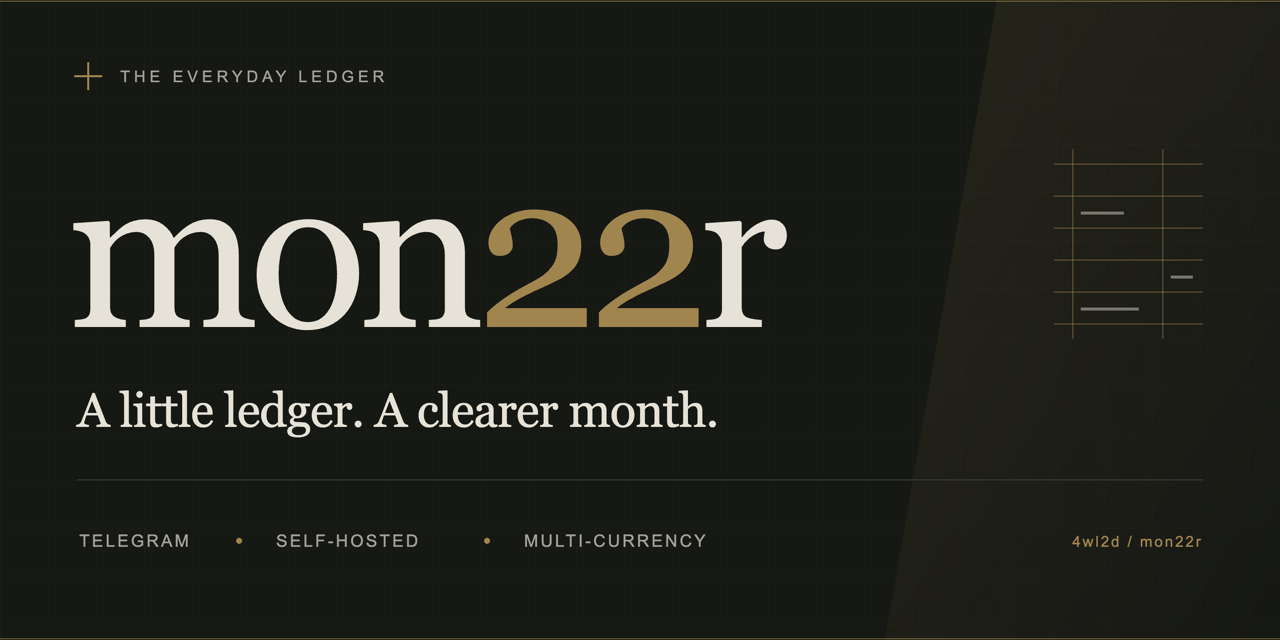
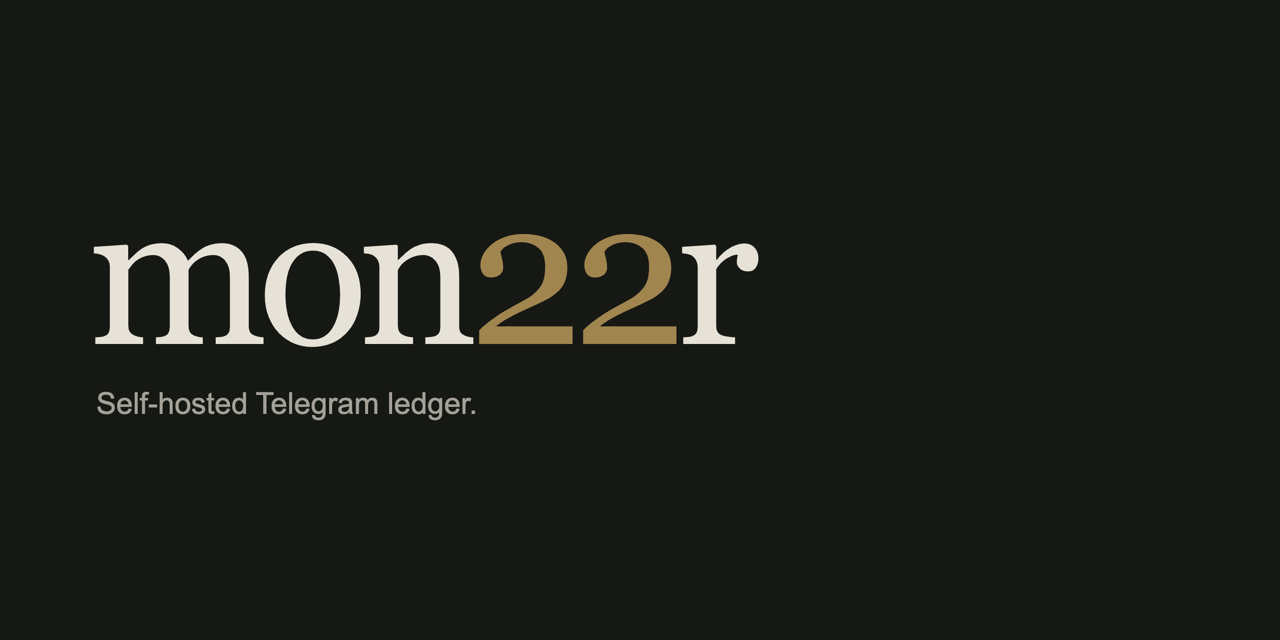
style: simplify covers to a minimal typographic wordmark

diff --git a/README.md b/README.md
@@ -1,5 +1,5 @@
 <p align="center">
-  <img src="docs/assets/hero.svg" alt="mon22r. A little ledger. A clearer month. A self-hosted Telegram ledger with an illustrative, synthetic month view." width="1280" />
+  <img src="docs/assets/hero.svg" alt="mon22r. Self-hosted Telegram ledger." width="1280" />
 </p>
 
 <p align="center">
